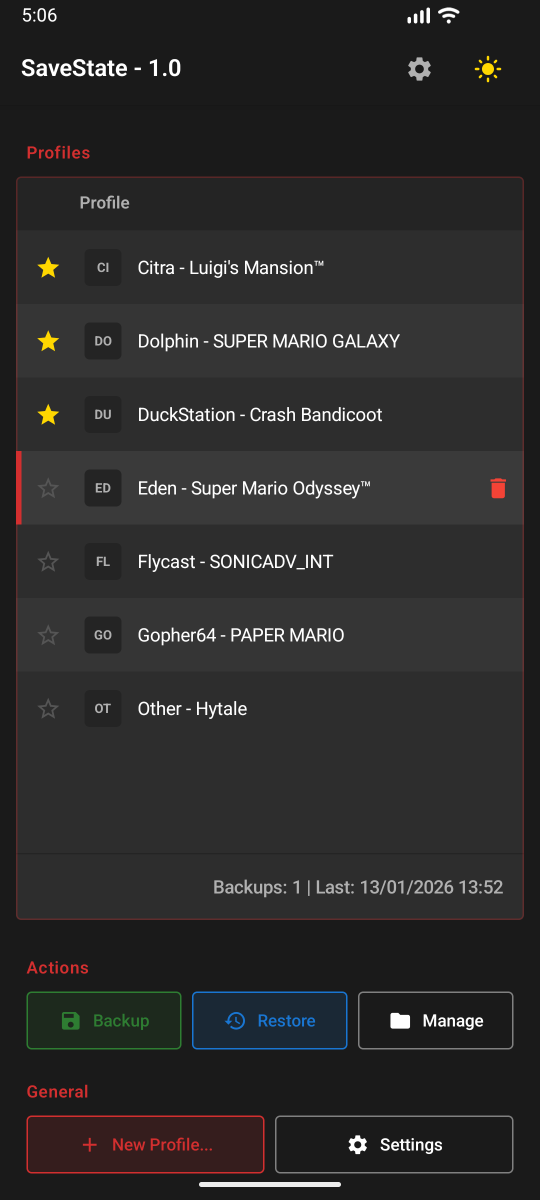
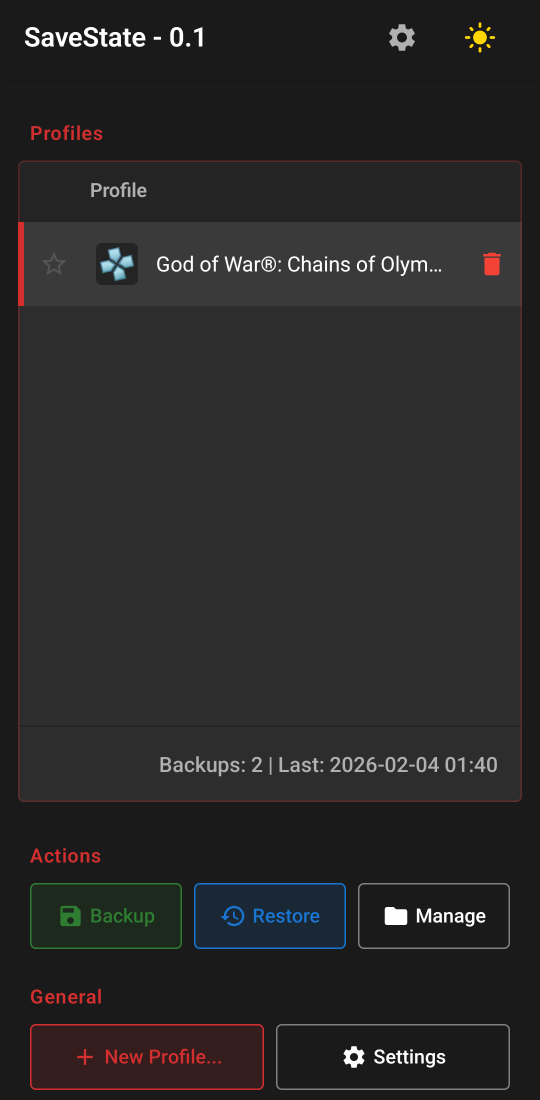
0.1

diff --git a/android-app/app/src/main/java/com/savestate/app/ui/components/ProfileCard.kt b/android-app/app/src/main/java/com/savestate/app/ui/components/ProfileCard.kt
@@ -1,5 +1,6 @@
 package com.savestate.app.ui.components
 
+import androidx.compose.foundation.Image
 import androidx.compose.foundation.background
 import androidx.compose.foundation.clickable
 import androidx.compose.foundation.layout.*
@@ -14,10 +15,13 @@ import androidx.compose.ui.Alignment
 import androidx.compose.ui.Modifier
 import androidx.compose.ui.draw.clip
 import androidx.compose.ui.graphics.Color
+import androidx.compose.ui.layout.ContentScale
+import androidx.compose.ui.res.painterResource
 import androidx.compose.ui.text.font.FontWeight
 import androidx.compose.ui.text.style.TextOverflow
 import androidx.compose.ui.unit.dp
 import androidx.compose.ui.unit.sp
+import com.savestate.app.R
 import com.savestate.app.data.model.GameProfile
 import com.savestate.app.ui.theme.*
 
@@ -28,7 +32,7 @@ import com.savestate.app.ui.theme.*
  * - Alternating row colors
  * - Star for favorites
  * - Delete button on hover/selection
- * - Emulator icon + game name + backup info layout
+ * - Emulator icon + game name layout
  */
 @Composable
 fun ProfileCard(
@@ -75,14 +79,15 @@ fun ProfileCard(
             )
         }
 
-        // Emulator icon placeholder + Profile name
+        // Emulator icon + Profile name
         Row(
             modifier = Modifier
                 .weight(1f)
                 .padding(horizontal = 8.dp),
             verticalAlignment = Alignment.CenterVertically
         ) {
-            // Emulator icon (placeholder circle)
+            // Emulator icon - use actual icon if available
+            val emulatorIconRes = getEmulatorIconResource(profile.emulator)
             Box(
                 modifier = Modifier
                     .size(28.dp)
@@ -90,19 +95,29 @@ fun ProfileCard(
                     .background(DarkSurface),
                 contentAlignment = Alignment.Center
             ) {
-                Text(
-                    text = profile.emulator.take(2).uppercase(),
-                    fontSize = 10.sp,
-                    fontWeight = FontWeight.Bold,
-                    color = TextSecondary
-                )
+                if (emulatorIconRes != null) {
+                    Image(
+                        painter = painterResource(id = emulatorIconRes),
+                        contentDescription = profile.emulator,
+                        modifier = Modifier.size(24.dp),
+                        contentScale = ContentScale.Fit
+                    )
+                } else {
+                    // Fallback to text initials if no icon
+                    Text(
+                        text = profile.emulator.take(2).uppercase(),
+                        fontSize = 10.sp,
+                        fontWeight = FontWeight.Bold,
+                        color = TextSecondary
+                    )
+                }
             }
 
             Spacer(modifier = Modifier.width(12.dp))
 
-            // Profile name: "Emulator - Game Name" format like desktop
+            // Profile name: only game name (without emulator prefix)
             Text(
-                text = "${profile.emulator} - ${profile.name}",
+                text = profile.name,
                 style = MaterialTheme.typography.bodyMedium,
                 color = TextPrimary,
                 maxLines = 1,
@@ -127,5 +142,21 @@ fun ProfileCard(
         } else {
             Spacer(modifier = Modifier.width(40.dp))
         }
+    }
+}
+
+/**
+ * Get the drawable resource ID for an emulator icon
+ * Returns null if no icon is available for that emulator
+ */
+private fun getEmulatorIconResource(emulator: String): Int? {
+    return when (emulator.lowercase()) {
+        "ppsspp" -> R.drawable.ic_emulator_ppsspp
+        // Add more emulators here as icons are added:
+        // "retroarch" -> R.drawable.ic_emulator_retroarch
+        // "dolphin" -> R.drawable.ic_emulator_dolphin
+        // "duckstation" -> R.drawable.ic_emulator_duckstation
+        // "citra" -> R.drawable.ic_emulator_citra
+        else -> null
     }
 }

diff --git a/android-app/app/src/main/java/com/savestate/app/MainActivity.kt b/android-app/app/src/main/java/com/savestate/app/MainActivity.kt
@@ -293,7 +293,7 @@ class MainActivity : ComponentActivity() {
                                 Toast.LENGTH_LONG
                             ).show()
                         },
-                        appVersion = "1.0"
+                        appVersion = "0.1"
                     )
                 } else {
                     MainScreen(
@@ -447,7 +447,7 @@ class MainActivity : ComponentActivity() {
                         onSettingsClick = { showSettingsScreen = true },
                         onThemeToggle = { isDarkTheme = !isDarkTheme },
                         isDarkTheme = isDarkTheme,
-                        appVersion = "1.0"
+                        appVersion = "0.1"
                     )
                 }
                 

diff --git a/android-app/app/src/main/java/com/savestate/app/ui/components/ActionButtons.kt b/android-app/app/src/main/java/com/savestate/app/ui/components/ActionButtons.kt
@@ -68,18 +68,19 @@ fun SaveStateButton(
                 TextMuted.copy(alpha = 0.5f)
             }
         ),
-        contentPadding = PaddingValues(horizontal = 16.dp, vertical = 8.dp)
+        contentPadding = PaddingValues(horizontal = 10.dp, vertical = 8.dp)
     ) {
         Icon(
             imageVector = icon,
             contentDescription = null,
             modifier = Modifier.size(18.dp)
         )
-        Spacer(modifier = Modifier.width(8.dp))
+        Spacer(modifier = Modifier.width(4.dp))
         Text(
             text = text,
             fontSize = 13.sp,
-            fontWeight = FontWeight.Medium
+            fontWeight = FontWeight.Medium,
+            maxLines = 1
         )
     }
 }

diff --git a/android-app/app/src/main/java/com/savestate/app/data/BackupManager.kt b/android-app/app/src/main/java/com/savestate/app/data/BackupManager.kt
@@ -33,7 +33,7 @@ class BackupManager(
         private const val TAG = "BackupManager"
         private const val MANIFEST_PATH = "savestate/manifest.json"
         private const val BUFFER_SIZE = 8192 // 8KB buffer for file operations
-        private const val APP_VERSION = "1.0" // TODO: Get from BuildConfig
+        private const val APP_VERSION = "0.1" // TODO: Get from BuildConfig
     }
     
     /**

diff --git a/android-app/app/src/main/java/com/savestate/app/ui/screens/SettingsScreen.kt b/android-app/app/src/main/java/com/savestate/app/ui/screens/SettingsScreen.kt
@@ -40,7 +40,7 @@ fun SettingsScreen(
     onBackClick: () -> Unit,
     onBrowseBackupPath: () -> Unit,
     onResetToDefault: () -> Unit,
-    appVersion: String = "1.0",
+    appVersion: String = "0.1",
     modifier: Modifier = Modifier
 ) {
     val scrollState = rememberScrollState()

diff --git a/android-app/app/src/main/java/com/savestate/app/ui/components/TopBar.kt b/android-app/app/src/main/java/com/savestate/app/ui/components/TopBar.kt
@@ -24,7 +24,7 @@ import com.savestate.app.ui.theme.*
  */
 @Composable
 fun SaveStateTopBar(
-    appVersion: String = "1.0",
+    appVersion: String = "0.1",
     isDarkTheme: Boolean = true,
     onThemeToggle: () -> Unit,
     onSettingsClick: () -> Unit,

diff --git a/android-app/app/src/main/java/com/savestate/app/ui/screens/MainScreen.kt b/android-app/app/src/main/java/com/savestate/app/ui/screens/MainScreen.kt
@@ -38,7 +38,7 @@ fun MainScreen(
     onSettingsClick: () -> Unit,
     onThemeToggle: () -> Unit,
     isDarkTheme: Boolean = true,
-    appVersion: String = "1.0",
+    appVersion: String = "0.1",
     modifier: Modifier = Modifier
 ) {
     Column(
